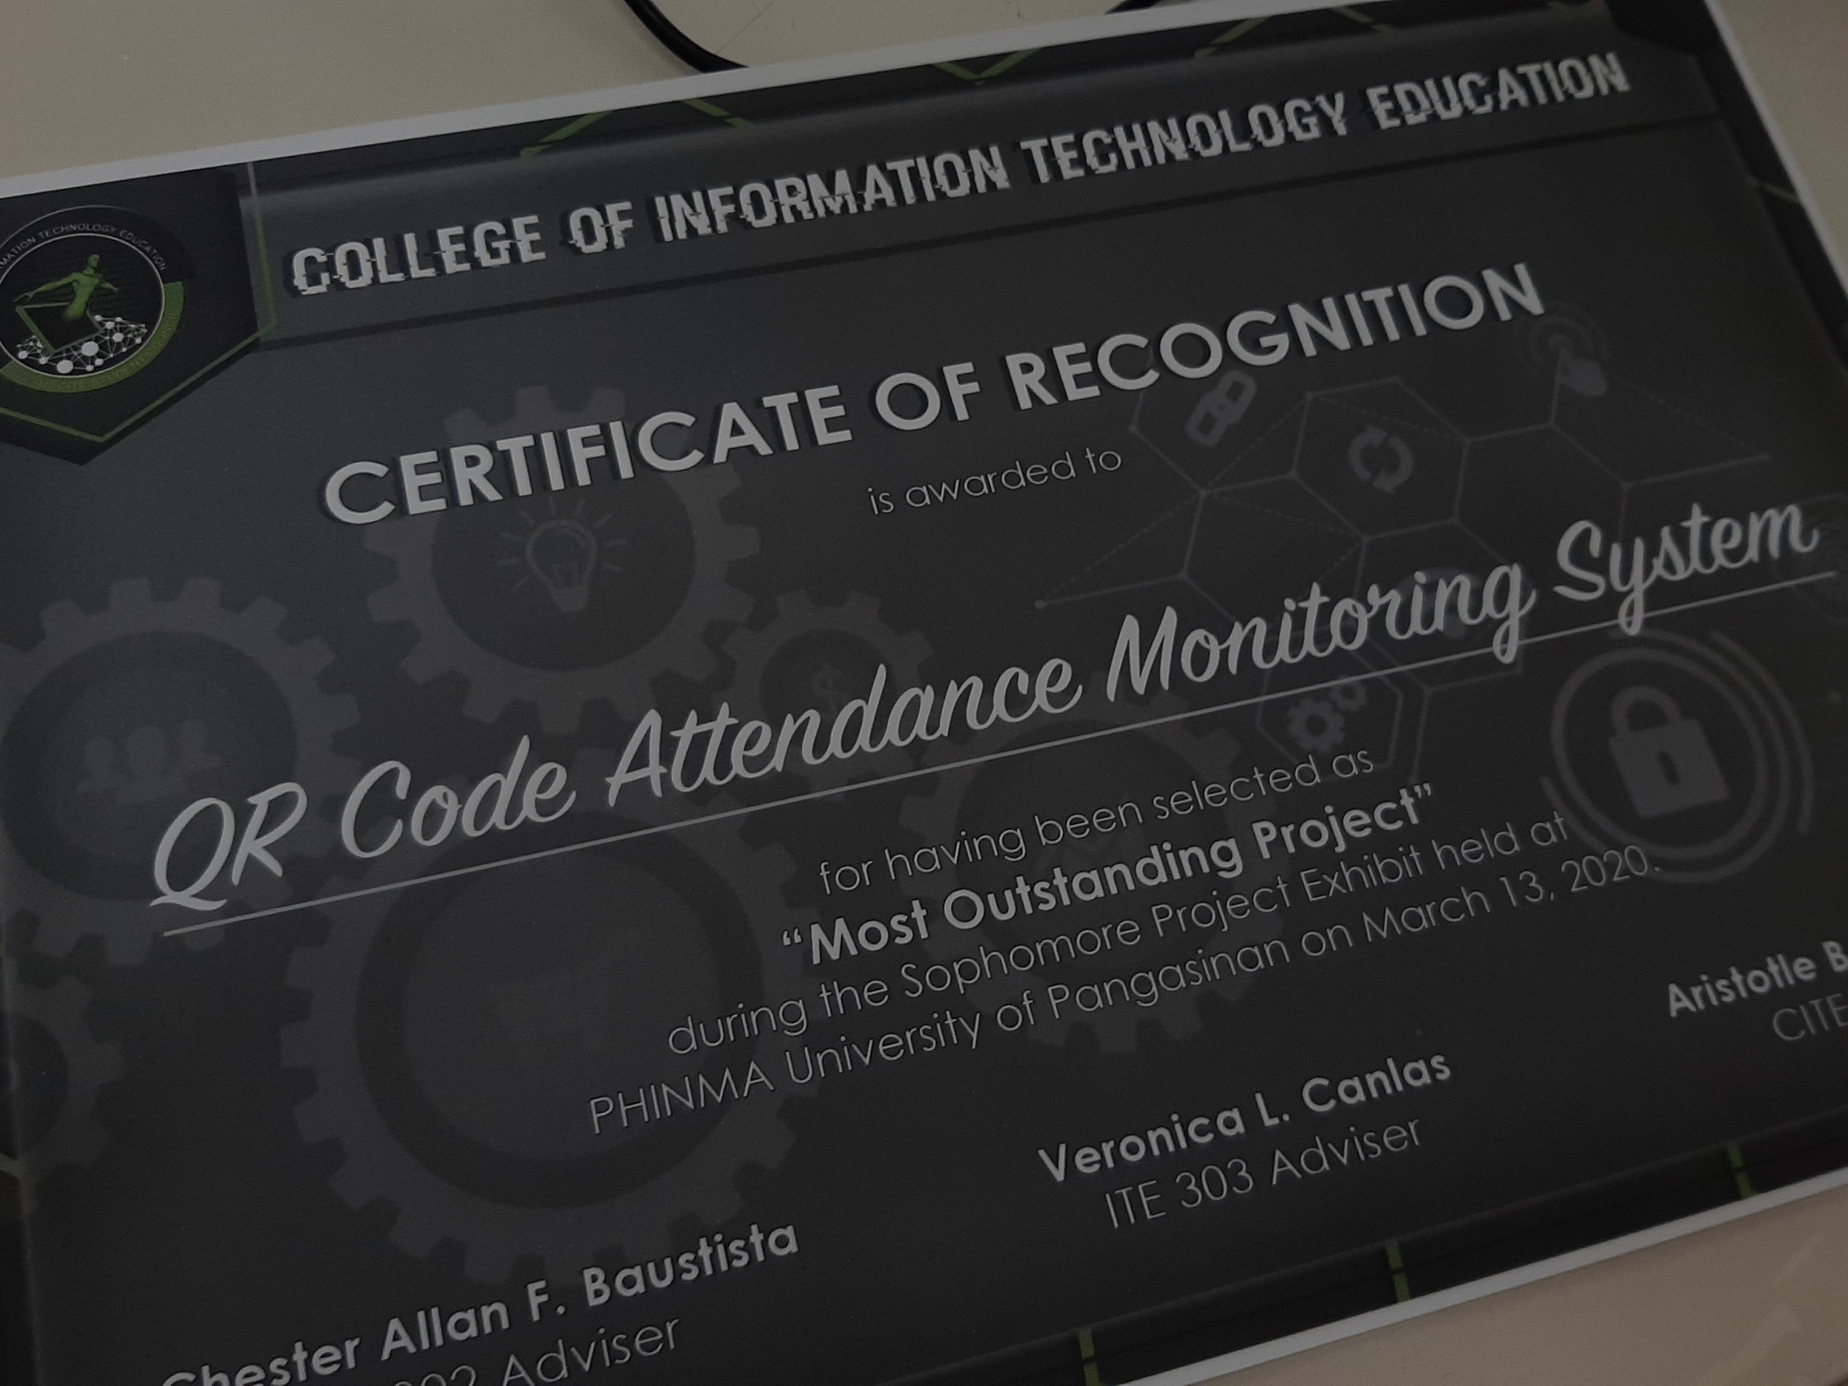
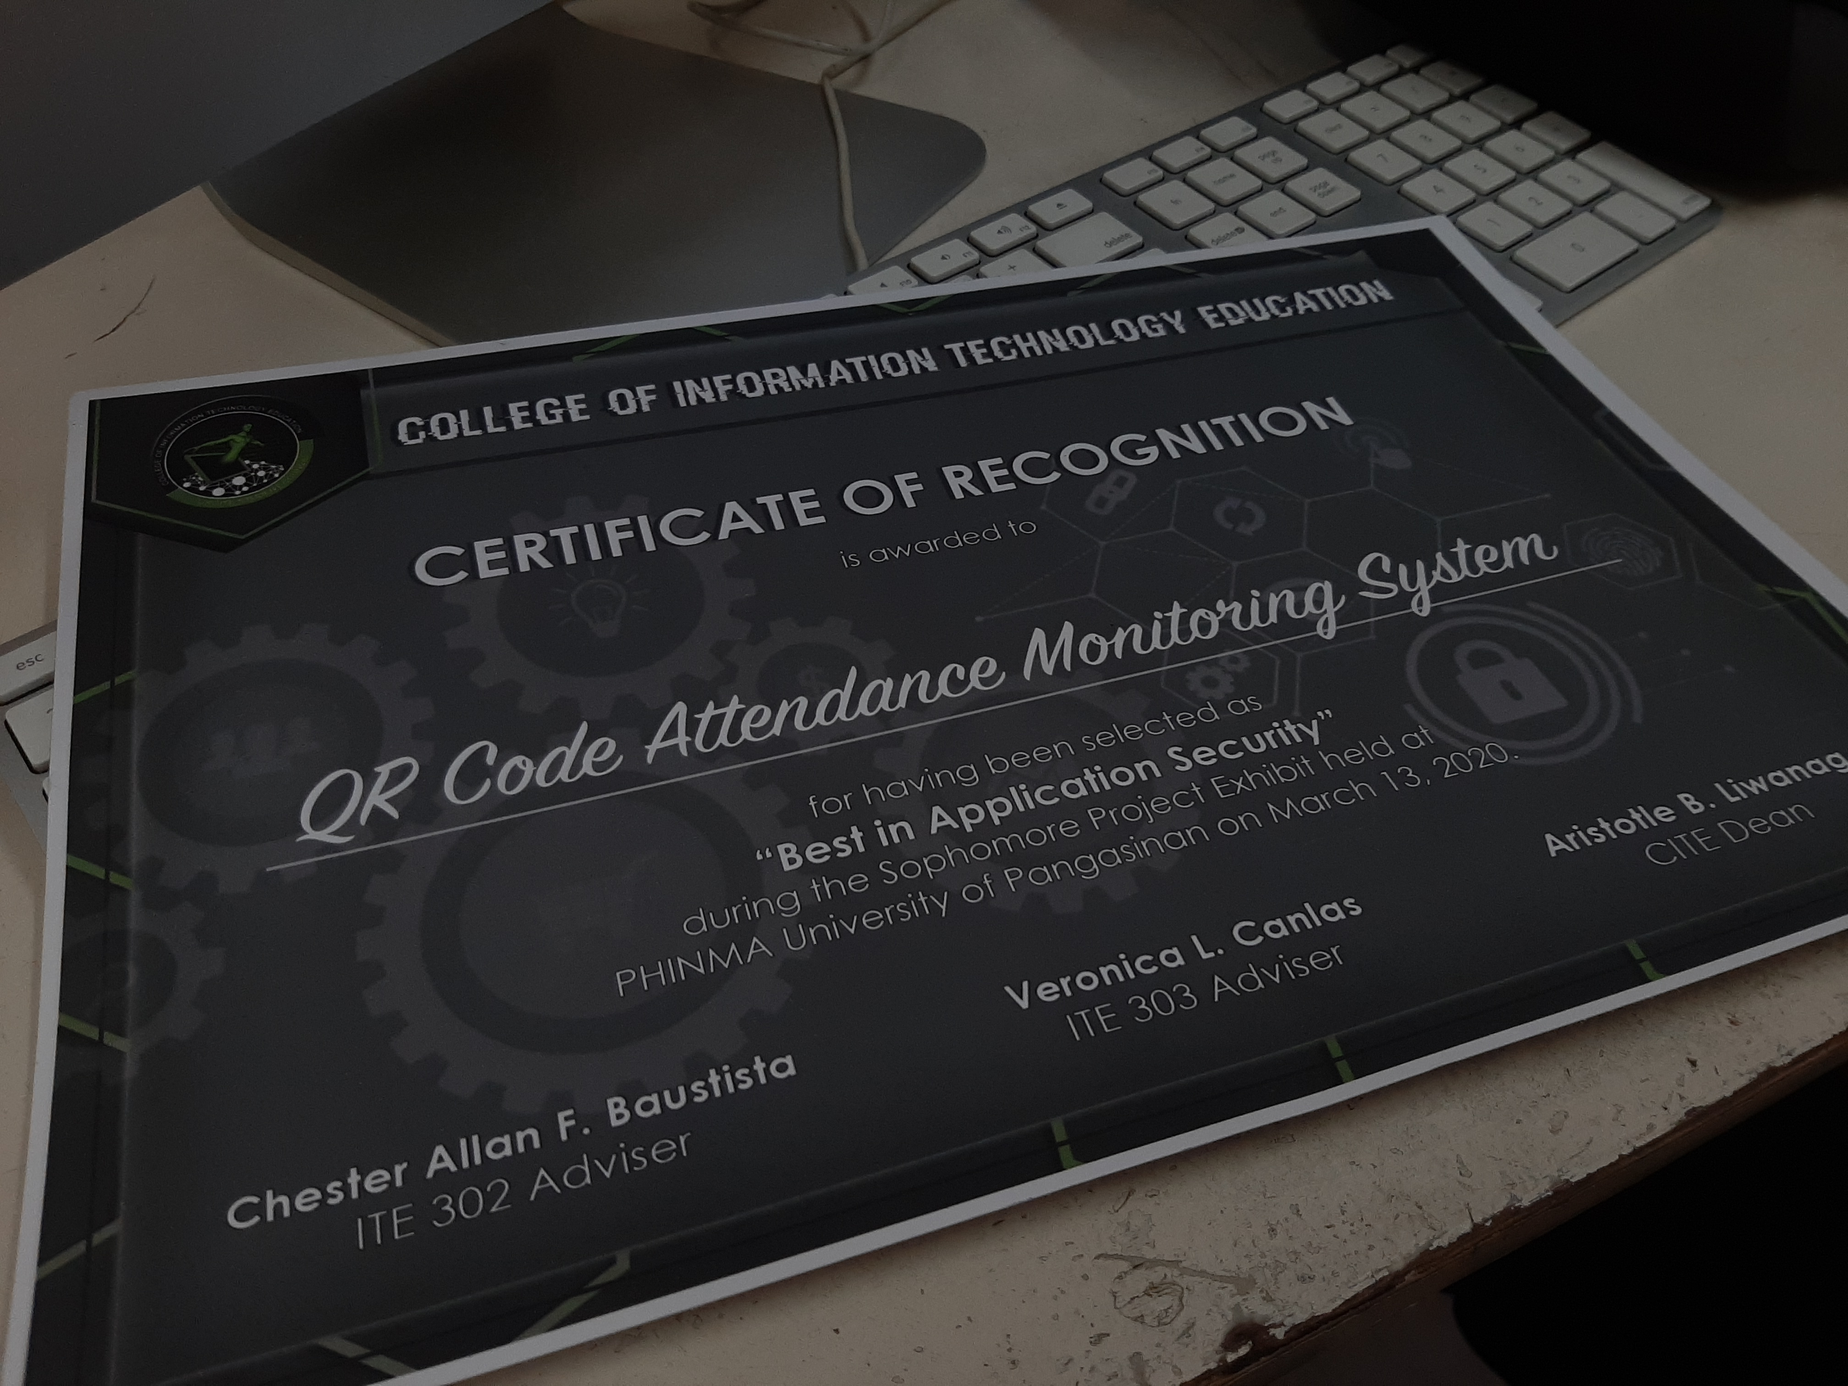
added appropriate classes

diff --git a/index.html b/index.html
@@ -293,7 +293,7 @@
           <div class="resume-item">
             <h4>Freelancer</h4>
             <h5>Accepting part time coding jobs.</h5>
-            <h6><i class="far fa-calendar-alt"></i>June 2018 - Present</h6>
+            <h6 class="date"><i class="far fa-calendar-alt"></i>June 2018 - Present</h6>
           </div>
 
         </div>
@@ -311,13 +311,13 @@
           <div class="resume-item offset">
             <h4>BS Information Technology - Major in Programming</h4>
             <h5>PHINMA - University of Pangasinan</h5>
-            <h6><i class="far fa-calendar-alt"></i>June 2018 - Present</h6>
+            <h6 class="date"><i class="far fa-calendar-alt"></i>June 2018 - Present</h6>
           </div>
 
           <div class="resume-item">
             <h4>High School Diploma</h4>
             <h5>Anonang National High School</h5>
-            <h6><i class="far fa-calendar-alt"></i>June 2012 - April 2018</h6>
+            <h6 class="date"><i class="far fa-calendar-alt"></i>June 2012 - April 2018</h6>
           </div>
 
         </div>
@@ -372,10 +372,10 @@
           <img src="images/talk2.jpg">
         </div>
         
-        <div class="description col-md-6">
+        <div class="details col-md-6">
           <h4>Beyond the Keyboard: The Joys and Leisures of Tech Pros</h4>
-          <h6><i class="far fa-calendar-alt"></i>May 20, 2020</h6>
-          <p>Participated in this virtual session as a student together with the IT professionals and the College of Information in Technology Education department's dean. They shared insights about time management, how to handle projects responsibly, and how to become a better team leader.</p>
+          <h6 class="date"><i class="far fa-calendar-alt"></i>May 20, 2020</h6>
+          <p class="description">Participated in this virtual session as a student together with the IT professionals and the College of Information in Technology Education department's dean. They shared insights about time management, how to handle projects responsibly, and how to become a better team leader.</p>
         </div>
 
       </div>
@@ -386,10 +386,10 @@
           <img src="images/talk1.png">
         </div>
         
-        <div class="description col-md-6">
+        <div class="details col-md-6">
           <h4>Upskilling People in the Modern World</h4>
-          <h6><i class="far fa-calendar-alt"></i>May 18, 2020</h6>
-          <p>Chosen as the only student interviewee in this virtual session. Shared experiences, projects I've developed, etc. Shared tips and reasons about why the tech industry should be the first on your list when considering what job and career plans to take in the future.</p>
+          <h6 class="date"><i class="far fa-calendar-alt"></i>May 18, 2020</h6>
+          <p class="description">Chosen as the only student interviewee in this virtual session. Shared experiences, projects I've developed, etc. Shared tips and reasons about why the tech industry should be the first on your list when considering what job and career plans to take in the future.</p>
         </div>
 
       </div>
@@ -400,10 +400,10 @@
           <img src="images/talk0.jpg">
         </div>
         
-        <div class="description col-md-6">
+        <div class="details col-md-6">
           <h4>Programming Track Speech</h4>
-          <h6><i class="far fa-calendar-alt"></i>January 24, 2020</h6>
-          <p>Gave a testimonial speech during the event, Student Success Ladder & Pinning Ceremony 2020, about why I chose the course, Bachelor of Science in Information Technology, problems I've faced as a Programming track student, and how I've overcome them. I ended it with very motivational words.</p>
+          <h6 class="date"><i class="far fa-calendar-alt"></i>January 24, 2020</h6>
+          <p class="description">Gave a testimonial speech during the event, Student Success Ladder & Pinning Ceremony 2020, about why I chose the course, Bachelor of Science in Information Technology, problems I've faced as a Programming track student, and how I've overcome them. I ended it with very motivational words.</p>
         </div>
 
       </div>
@@ -436,10 +436,10 @@
           <div class="image">
             <img src="images/competition3.png">
           </div>
-          <div class="description">
+          <div class="details">
             <h4>AIM Hackathon 2020: Restarting Philippine Business and Society After COVID-19</h4>
-            <h6><i class="far fa-calendar-alt"></i>April 27, 2020 - May 10, 2020</h6>
-            <p>The <span class="highlight">Asian Institute of Management called on all college and graduate level students</span> in the Philippines to help shape the emerging landscape of Philippine business and society. As the country continues to suffer from the effects of the COVID-19 pandemic, this hackathon addressed the dire economic and humanitarian situation. The objective was to hit the ground running as soon as the ECQ was eased or lifted.</p>
+            <h6 class="date"><i class="far fa-calendar-alt"></i>April 27, 2020 - May 10, 2020</h6>
+            <p class="description">The <span class="highlight">Asian Institute of Management called on all college and graduate level students</span> in the Philippines to help shape the emerging landscape of Philippine business and society. As the country continues to suffer from the effects of the COVID-19 pandemic, this hackathon addressed the dire economic and humanitarian situation. The objective was to hit the ground running as soon as the ECQ was eased or lifted.</p>
           </div>
         </div>
         
@@ -447,10 +447,10 @@
           <div class="image">
             <img src="images/competition2.jpg">
           </div>
-          <div class="description">
+          <div class="details">
             <h4>Impact Hackathon - Impact 2050</h4>
-            <h6><i class="far fa-calendar-alt"></i>October 30 & 31, 2019</h6>
-            <p>Serving as an official attempt at the <span class="highlight">Guinness World Records for biggest hackathon</span>, the 24-hour activity gathered 10,000 participants across the Philippines and Asia-Pacific, with 3,500 stationed at the Smart Araneta Coliseum, its main venue. It was set to be the World's Largest Multi-City Hackathon by October 2019. Impact 2050 is also a multi-year integrated and innovative entrepreneurial programme that aims to catalyze the impact entrepreneurship ecosystem in the Asia Pacific.</p>
+            <h6 class="date"><i class="far fa-calendar-alt"></i>October 30 & 31, 2019</h6>
+            <p class="description">Serving as an official attempt at the <span class="highlight">Guinness World Records for biggest hackathon</span>, the 24-hour activity gathered 10,000 participants across the Philippines and Asia-Pacific, with 3,500 stationed at the Smart Araneta Coliseum, its main venue. It was set to be the World's Largest Multi-City Hackathon by October 2019. Impact 2050 is also a multi-year integrated and innovative entrepreneurial programme that aims to catalyze the impact entrepreneurship ecosystem in the Asia Pacific.</p>
           </div>
         </div>
         
@@ -458,10 +458,10 @@
           <div class="image">
             <img src="images/competition1.jpg">
           </div>
-          <div class="description">
+          <div class="details">
             <h4>HomeBrew - Java Programming Competition</h4>
-            <h6><i class="far fa-calendar-alt"></i>October 03, 2019</h6>
-            <p>Champion in this <span class="highlight">Java</span> programming competition that tests the programmer's analytical, logical, and critical thinking skills under time pressure. The goal is to finish every problem within the given time limit. Every round, groups of programmers unable to accomplish the task will be eliminated until there's only one left remaining. If there's more than one at the end of the very last problem, the winner will be decided by the number of points he/she accumulated.</p>
+            <h6 class="date"><i class="far fa-calendar-alt"></i>October 03, 2019</h6>
+            <p class="description">Champion in this <span class="highlight">Java</span> programming competition that tests the programmer's analytical, logical, and critical thinking skills under time pressure. The goal is to finish every problem within the given time limit. Every round, groups of programmers unable to accomplish the task will be eliminated until there's only one left remaining. If there's more than one at the end of the very last problem, the winner will be decided by the number of points he/she accumulated.</p>
           </div>
         </div>
         
@@ -469,10 +469,10 @@
           <div class="image">
             <img src="images/6.jpg">
           </div>
-          <div class="description">
+          <div class="details">
             <h4>GreenBowl - Python Programming Competition</h4>
-            <h6><i class="far fa-calendar-alt"></i>October 12, 2018</h6>
-            <p>Champion in this <span class="highlight">Python</span> programming competition that tests the programmer's analytical, logical, and critical thinking skills under time pressure. The goal is to finish every problem within the given time limit. Every round, groups of programmers unable to accomplish the task will be eliminated until there's only one left remaining. If there's more than one at the end of the very last problem, the winner will be decided by the number of points he/she accumulated.</p>
+            <h6 class="date"><i class="far fa-calendar-alt"></i>October 12, 2018</h6>
+            <p class="description">Champion in this <span class="highlight">Python</span> programming competition that tests the programmer's analytical, logical, and critical thinking skills under time pressure. The goal is to finish every problem within the given time limit. Every round, groups of programmers unable to accomplish the task will be eliminated until there's only one left remaining. If there's more than one at the end of the very last problem, the winner will be decided by the number of points he/she accumulated.</p>
           </div>
         </div>
 
@@ -506,10 +506,10 @@
           <div class="image">
             <img src="images/award6.jpg">
           </div>
-          <div class="description">
-            <h5>Best in Application Security</h5>
+          <div class="details">
+            <h5>Most Outstanding Project</h5>
             <p class="date"><i class="far fa-calendar-alt"></i>March 13, 2020</p>
-            <p>Our project that utilized QR Code technology, in which I'm both the project manager and programmer, qualified to participate in the Project Exhibit 2020 and was chosen as the Best in Application Security.</p>
+            <p class="description">Our project that utilized QR Code technology, in which I'm both the project manager and programmer, qualified to participate in the Project Exhibit 2020 and was chosen as the Most Outstanding Project.</p>
           </div>
         </div>
         
@@ -517,10 +517,10 @@
           <div class="image">
             <img src="images/award5.jpg">
           </div>
-          <div class="description">
-            <h5>Most Outstanding Project</h5>
+          <div class="details">
+            <h5>Best in Application Security</h5>
             <p class="date"><i class="far fa-calendar-alt"></i>March 13, 2020</p>
-            <p>Our project that utilized QR Code technology, in which I'm both the project manager and programmer, qualified to participate in the Project Exhibit 2020 and was chosen as the Most Outstanding Project.</p>
+            <p class="description">Our project that utilized QR Code technology, in which I'm both the project manager and programmer, qualified to participate in the Project Exhibit 2020 and was chosen as the Best in Application Security.</p>
           </div>
         </div>
         
@@ -528,10 +528,10 @@
           <div class="image">
             <img src="images/award4.jpg">
           </div>
-          <div class="description">
+          <div class="details">
             <h5>Flutter Philippines T-Shirt</h5>
             <p class="date"><i class="far fa-calendar-alt"></i>February 15, 2020</p>
-            <p>Awarded with this t-shirt by sir Jan Sebastian, core member of Flutter Philippines, that discussed how to utilize <span class="highlight">Dart</span> programming language for Flutter developement during the 2020 TechCaravan event .</p>
+            <p class="description">Awarded with this t-shirt by sir Jan Sebastian, core member of Flutter Philippines, that discussed how to utilize <span class="highlight">Dart</span> programming language for Flutter developement during the 2020 TechCaravan event .</p>
           </div>
         </div>
         
@@ -539,10 +539,10 @@
           <div class="image">
             <img src="images/award3.jpg">
           </div>
-          <div class="description">
+          <div class="details">
             <h5>Best Android Project</h5>
             <p class="date"><i class="far fa-calendar-alt"></i>January 24, 2020</p>
-            <p>With literally a one-man team, I solo built my own fully functional social networking site for our university and was chosen as one of the Best Android Project. I also received two medals for being an outstanding student.</p>
+            <p class="description">With literally a one-man team, I solo built my own fully functional social networking site for our university and was chosen as one of the Best Android Project. I also received two medals for being an outstanding student.</p>
           </div>
         </div>
         
@@ -550,10 +550,10 @@
           <div class="image">
             <img src="images/award2.jpg">
           </div>
-          <div class="description">
+          <div class="details">
             <h5>HomeBrew - Java Programming Competition</h5>
             <p class="date"><i class="far fa-calendar-alt"></i>October 03, 2019</p>
-            <p>Champion in this <span class="highlight">Java</span> programming competition that tests the programmer's analytical, logical, and critical thinking skills under time pressure.</p>
+            <p class="description">Champion in this <span class="highlight">Java</span> programming competition that tests the programmer's analytical, logical, and critical thinking skills under time pressure.</p>
           </div>
         </div>
         
@@ -561,10 +561,10 @@
           <div class="image">
             <img src="images/award1.jpg">
           </div>
-          <div class="description">
+          <div class="details">
             <h5>Digital Ocean T-Shirt</h5>
             <p class="date"><i class="far fa-calendar-alt"></i>September 20 & 21, 2019</p>
-            <p>Using the <span class="highlight">Kotlin</span> programming language, I was the very first to solve the machine problem given by sir Mac Valmores, from the Philippine Android Developers community, and was given this Digital Ocean t-shirt as an award.</p>
+            <p class="description">Using the <span class="highlight">Kotlin</span> programming language, I was the very first to solve the machine problem given by sir Mac Valmores, from the Philippine Android Developers community, and was given this Digital Ocean t-shirt as an award.</p>
           </div>
         </div>
         
@@ -572,10 +572,10 @@
           <div class="image">
             <img src="images/award0.jpg">
           </div>
-          <div class="description">
+          <div class="details">
             <h5>GreenBowl - Python Programming Competition</h5>
             <p class="date"><i class="far fa-calendar-alt"></i>October 12, 2018</p>
-            <p>Champion in this <span class="highlight">Python</span> programming competition that tests the programmer's analytical, logical, and critical thinking skills under time pressure.</p>
+            <p class="description">Champion in this <span class="highlight">Python</span> programming competition that tests the programmer's analytical, logical, and critical thinking skills under time pressure.</p>
           </div>
         </div>
 
@@ -589,6 +589,7 @@
 </div>
 <!-- End Awards Section -->
 
+<!-- I will add this blogs section again soon -->
 <!-- Start Blogs Section -->
 <!-- <div id="blogs" class="offset"> -->
   
@@ -606,6 +607,16 @@
 
 <!-- </div> -->
 <!-- End Blogs Section -->
+
+<!-- Start Footer Section -->
+<div id="footer" class="offset">
+  
+  <div class="footer jumbotron no-margin-bottom">
+    
+  </div>
+
+</div>
+<!-- End Footer Section -->
 
 <!-- Script Source Files -->
 <script src="https://code.jquery.com/jquery-3.5.1.slim.min.js" integrity="sha384-DfXdz2htPH0lsSSs5nCTpuj/zy4C+OGpamoFVy38MVBnE+IbbVYUew+OrCXaRkfj" crossorigin="anonymous"></script>

diff --git a/style.css b/style.css
@@ -45,7 +45,7 @@ body {
   background-color: #FBFBFD;
 }
 .not-jumbotron {
-  margin: 3rem 0;
+  padding: 3rem 0;
 }
 .jumbotron.no-margin-bottom {
   margin-bottom: 0;
@@ -120,28 +120,6 @@ h4.subheading {
 }
 
 /* About */
-/*.narrow {
-  width: 75%;
-  margin: 1.5rem auto;
-  padding-top: 2rem;
-}*/
-/*.narrow h1 {
-  font-size: 2.4rem;
-}*/
-/*.btn-secondary {
-  border-width: medium;
-  border-radius: 0;
-  font-size: 1.2rem;
-  padding: .6rem 1.2rem;
-  margin: 1rem;
-  color: white;
-  background-color: #1EBBA3;
-  border-color: #1EBBA3;
-}
-.btn-secondary:hover {
-  background-color: #189582 ;
-  border-color: #189582 ;
-}*/
 .about .image img {
   border-radius: 50%;
   width: 100%;
@@ -207,7 +185,7 @@ h4.subheading {
 .resume-item h5 {
   margin-bottom: 1rem;
 }
-.resume-item i {
+.resume-item .date i {
   margin-right: .5rem;
 }
 
@@ -256,25 +234,25 @@ h4.subheading {
   height: 100%;
   object-fit: cover;
 }
-.talk .description {
+.talk .details {
   padding: 2rem;
   height: 100%;
   background: #FBFBFD;
-  font-weight: 300;
 }
 .talk h4 {
   margin-bottom: 1rem;
   font-weight: 700;
   color: #1D1D1F;
 }
-.talk h6 {
+.talk .date {
   margin-bottom: 1rem;
 }
-.talk i {
+.talk .date i {
   margin-right: .5rem;
 }
-.talk p {
+.talk .description {
   font-size: 1.2rem;
+  font-weight: 300;
 }
 
 /* Competitions */
@@ -290,24 +268,24 @@ h4.subheading {
   height: 100%;
   object-fit: cover;
 }
-.competition .description {
+.competition .details {
   padding: 2rem;
   background: #FBFBFD;
-  font-weight: 300;
 }
 .competition h4 {
   margin-bottom: 1rem;
   font-weight: 700;
   color: #1D1D1F;
 }
-.competition h6 {
+.competition .date {
   margin-bottom: 1rem;
 }
-.competition i {
+.competition .date i {
   margin-right: .5rem;
 }
-.competition p {
+.competition .description {
   font-size: 1.2rem;
+  font-weight: 300;
 }
 
 /* Awards */
@@ -323,10 +301,9 @@ h4.subheading {
   height: 100%;
   object-fit: cover;
 }
-.award .description {
+.award .details {
   padding: 1.3rem;
   background: #FBFBFD;
-  font-weight: 300;
 }
 .award h5 {
   margin-bottom: .6rem;
@@ -336,8 +313,16 @@ h4.subheading {
 .award .date {
   margin-bottom: .6rem;
 }
-.award i {
+.award .date i {
   margin-right: .5rem;
+}
+.award .description {
+  font-weight: 300;
+}
+
+/* Footer */
+.footer.jumbotron {
+  background: #F5F5F7;
 }
 
 /* Border */
